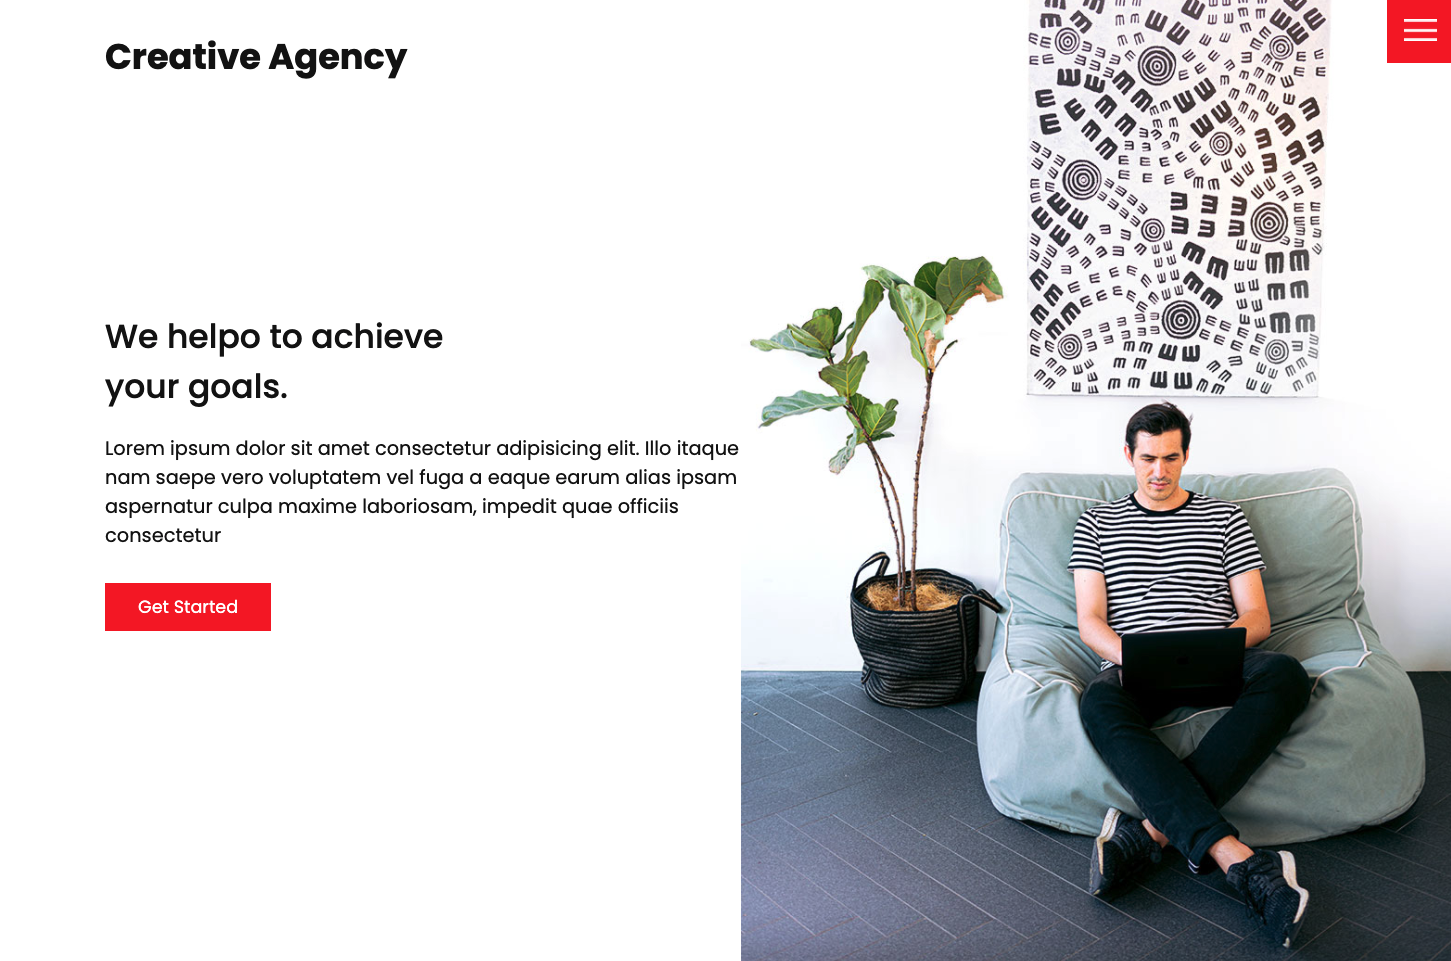
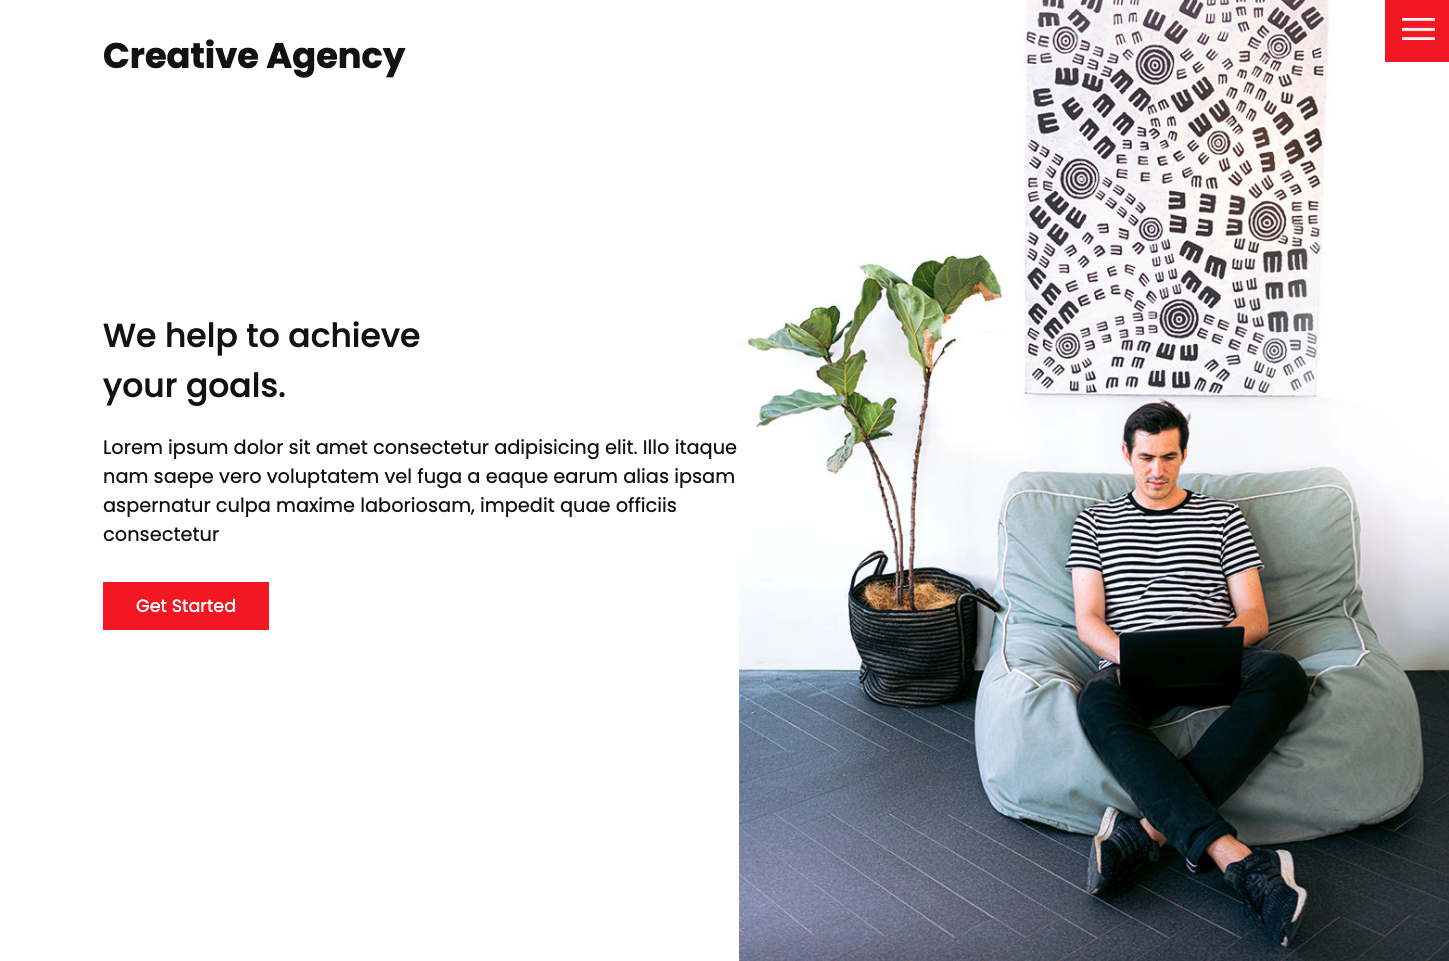
fixed typo

diff --git a/index.html b/index.html
@@ -47,7 +47,7 @@
       <img src="images/home-img.jpg" class="home-img" alt="" />
       <div class="home-content">
         <h1>
-          We helpo to achieve <br />
+          We help to achieve <br />
           your goals.
         </h1>
         <p>
